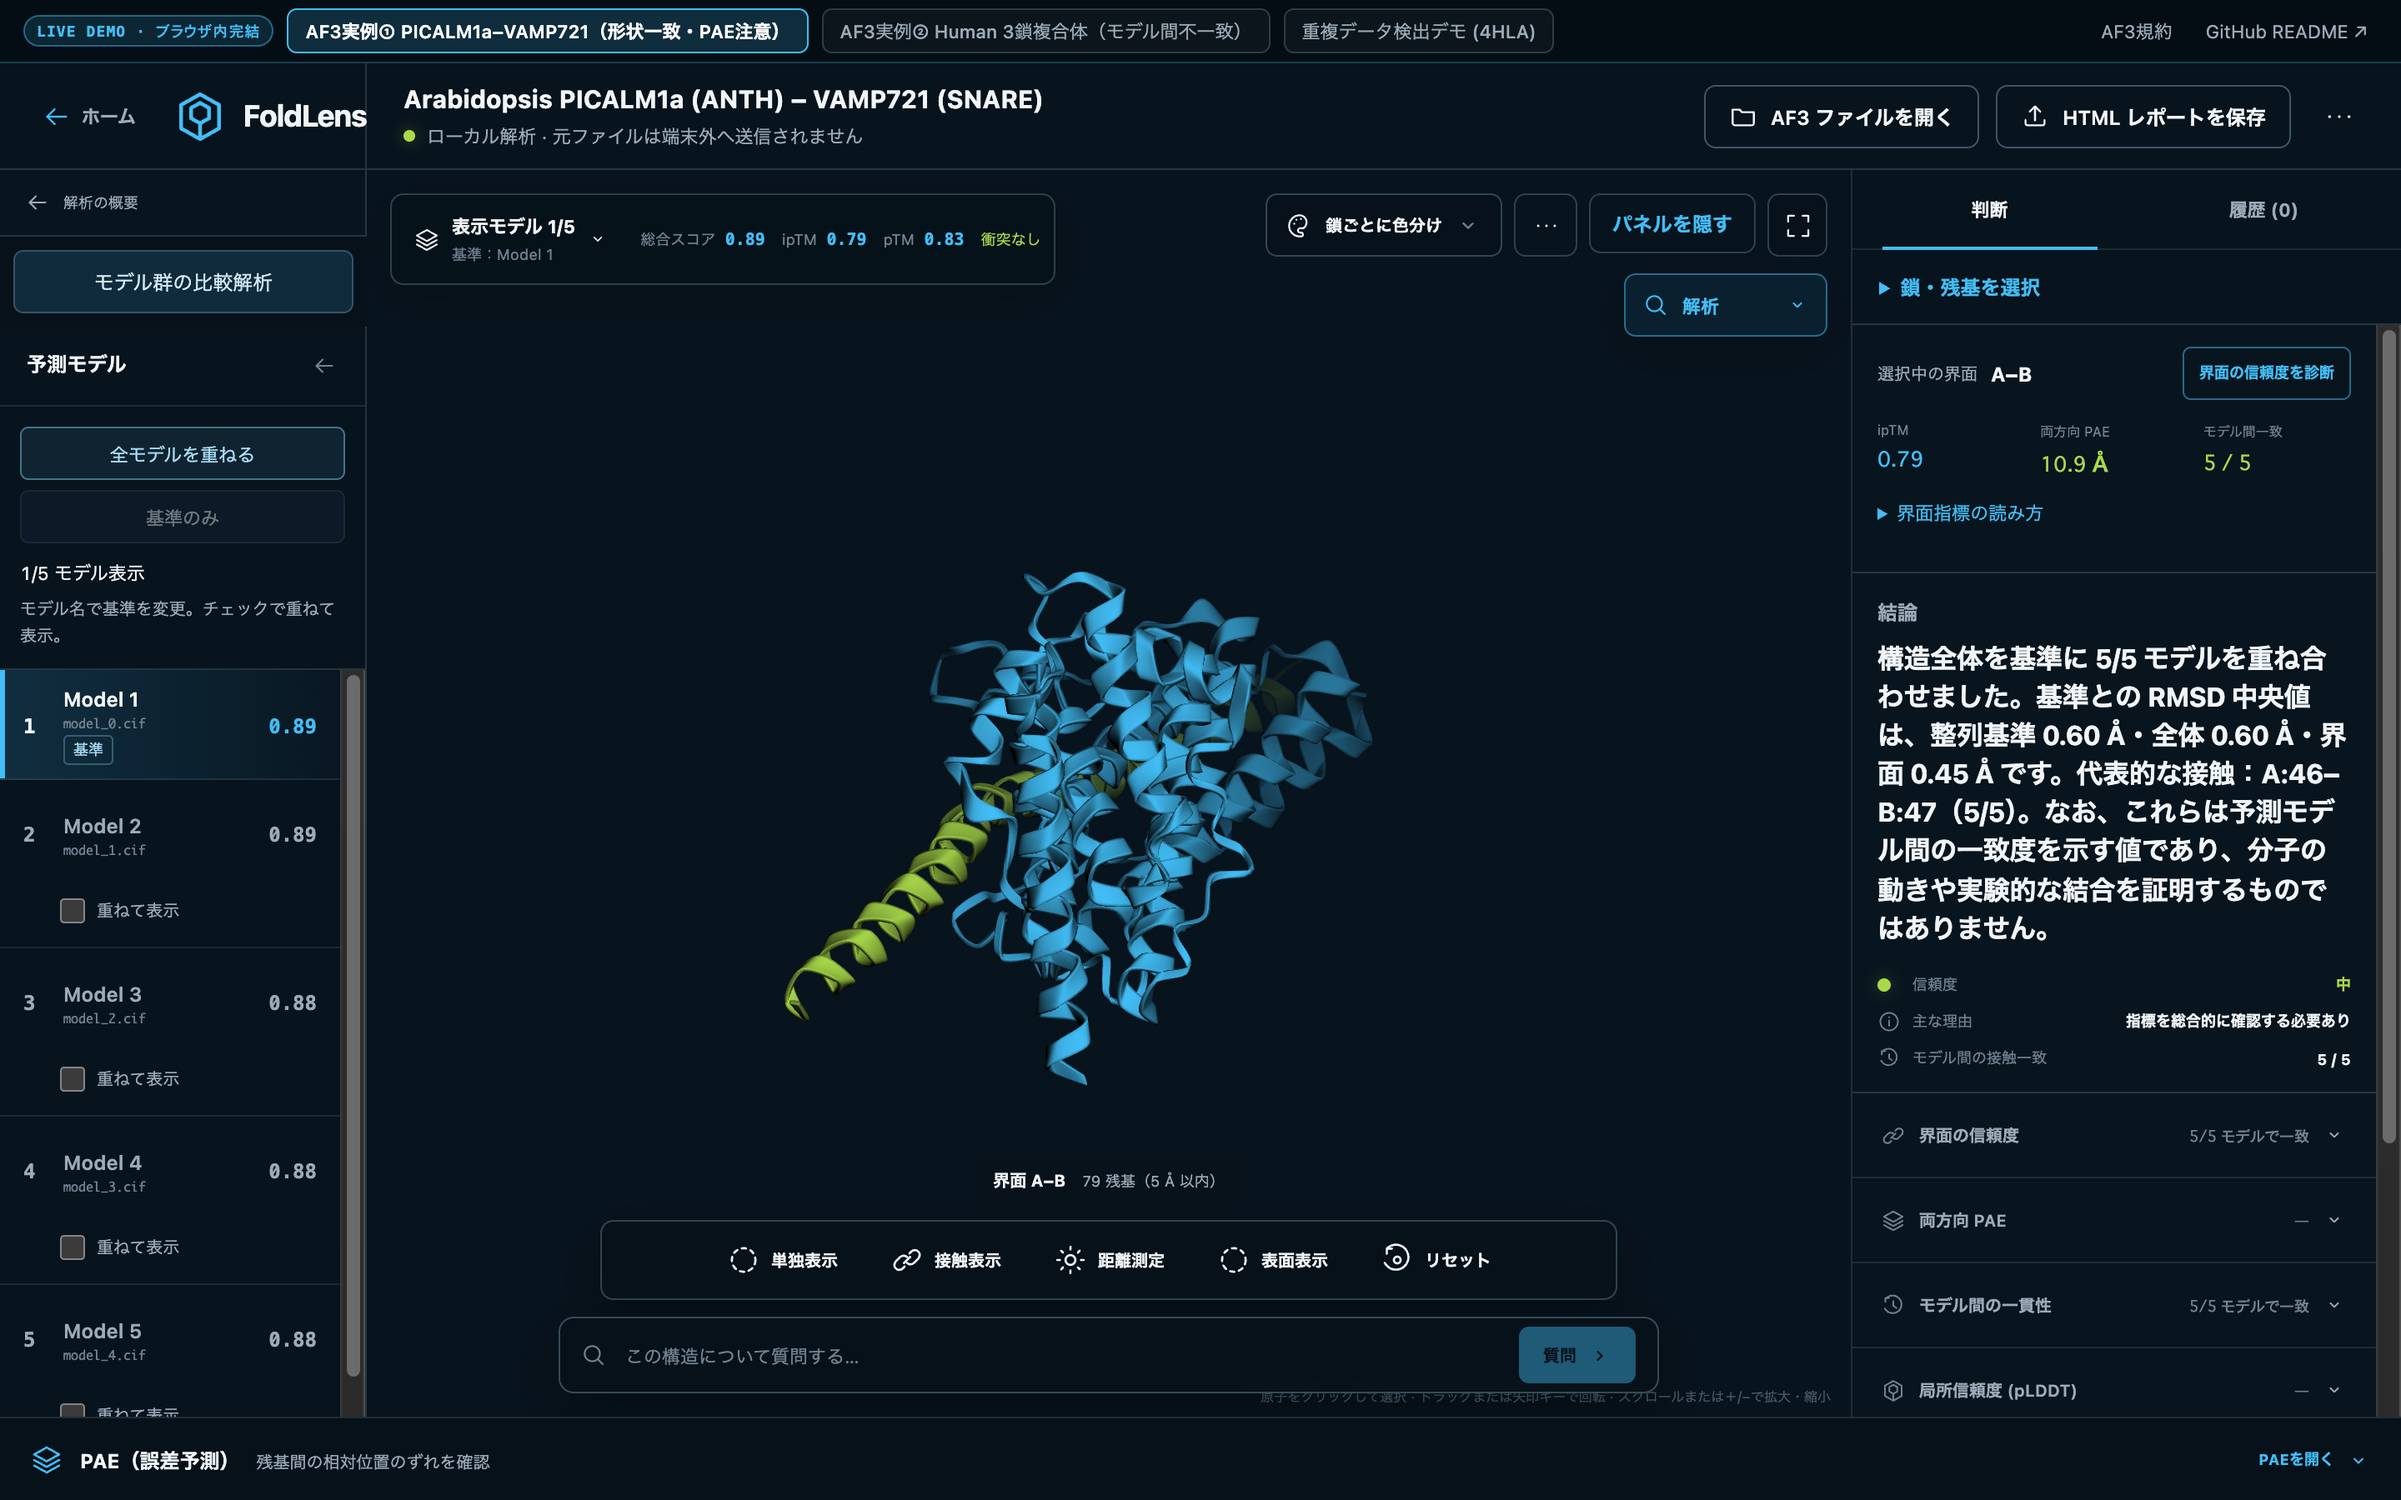
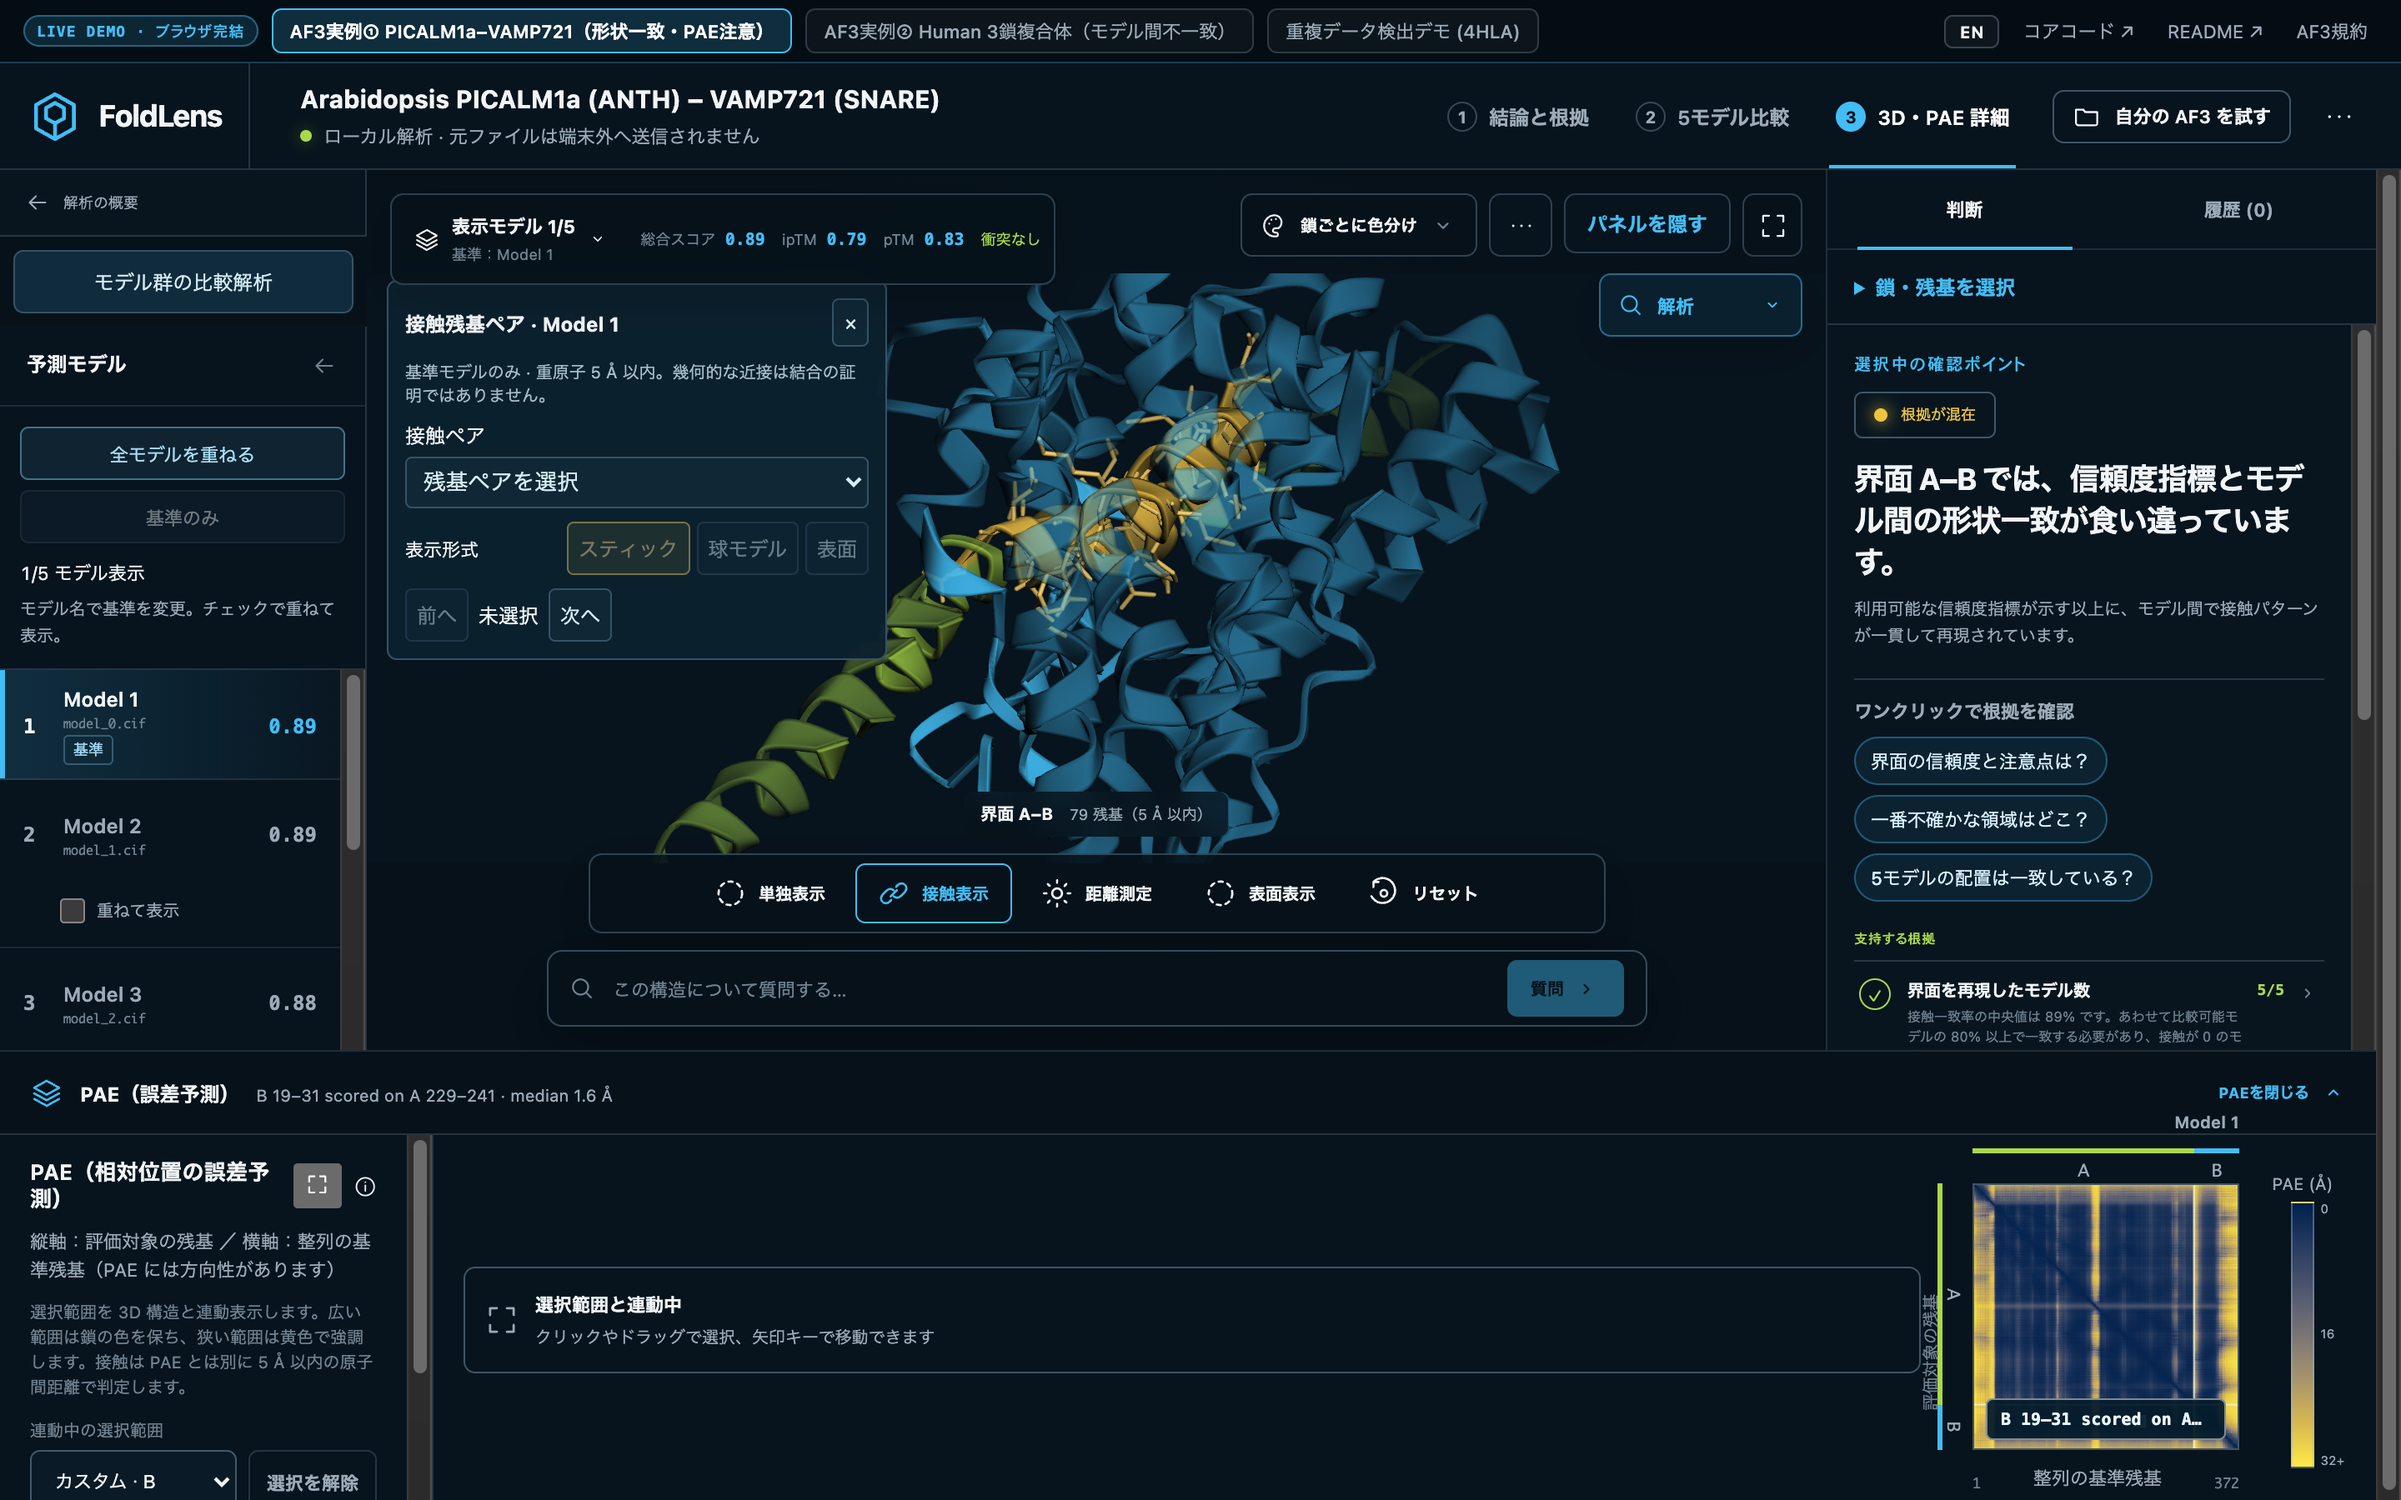
Refresh live demo screenshots and add 30-second guided walkthrough to README

diff --git a/README.md b/README.md
@@ -11,7 +11,12 @@
 [![Gate Demo](https://img.shields.io/badge/品質チェック-重複データ検出%20(4HLA)-6366f1?style=flat-square)](https://shunsuke-max.github.io/foldlens-portfolio/?case=4hla)
 
 > **▶ [ライブデモをブラウザで開く（インストール不要・APIキー不要・ブラウザ内完結）](https://shunsuke-max.github.io/foldlens-portfolio/)**  
-> 実際の AlphaFold 3 Server で出力した予測データ 2 件（各 5 モデル）をあらかじめ読み込めるようにしています。ブラウザ内の Web Worker で構造ファイル（CIF）と誤差予測（PAE JSON）を直接解析し、3D 分子表示・モデル間比較・PAE 連動・ルールベースのローカル解析をそのまま体験できます（お手元の AF3 ZIP をドラッグ＆ドロップしても、ファイルは外部へ一切送信されません）。
+> 実際の AlphaFold 3 Server で出力した予測データ 2 件（各 5 モデル）と重複座標チェック用データ（4HLA）を搭載しています。ブラウザ内の Web Worker で CIF / PAE JSON を直接解析するため、お手元の AF3 ZIP を試してもファイルは外部へ一切送信されません。
+>
+> **30 秒で全体像をつかむ体験ルート**
+> 1. **実例 1/3（初期画面）**：上部の見どころガイドと **`1. 結論と根拠` → `2. 5モデル比較` → `3. 3D・PAE 詳細`** の 3 ステップタブを順にクリックし、高スコア（`ipTM 0.79`）の裏にある界面 PAE `11.0 Å` とワンクリック質問を確認する。
+> 2. **実例 2/3（Human 3 鎖）**：ガイド右の「次の実例②」ボタンから切替え、配置割れ（`全体 RMSD 60.3 Å`）の自動警告と天然変性領域（`鎖 A 172–562`）の切り分けを見る。
+> 3. **実例 3/3（重複座標 4HLA）**：「次の実例③」ボタンで、同一座標 5 ファイルを `0.001 Å` 精度で自動ブロックするデータ品質ゲートを確認する（右上 `EN / 日本語` で即時言語切替に対応）。
 
 FoldLens は、AlphaFold 3 の構造予測結果を研究者が解釈・比較・検証するための**ローカル完結型（ローカルファースト）の AI 研究支援ワークスペース**です。3D 分子ビューア、信頼度・PAE 解析、複数予測モデル間の形状・接触比較、そして数値計算ツールを呼び出して根拠付きで回答する AI 研究エージェントをひとつの画面に統合しています。
 

diff --git a/README.en.md b/README.en.md
@@ -11,7 +11,12 @@
 [![Gate Demo](https://img.shields.io/badge/Quality%20Gate-Duplicate%20Coords%20(4HLA)-6366f1?style=flat-square)](https://shunsuke-max.github.io/foldlens-portfolio/?case=4hla)
 
 > **▶ [Launch Interactive Browser Demo (Zero Install · No API Key · 100% Client-Side)](https://shunsuke-max.github.io/foldlens-portfolio/)**  
-> Preloaded with two real AlphaFold 3 Server prediction ensembles (5 models each). All CIF/PAE parsing, heavy-atom contact comparison, 3Dmol.js rendering, and deterministic offline analysis execute locally inside browser Web Workers—you can also drag and drop your own AF3 ZIP without uploading raw coordinates.
+> Preloaded with two real AlphaFold 3 Server prediction ensembles (5 models each) plus a duplicate-coordinate quality gate case (4HLA). All CIF/PAE parsing, heavy-atom contact comparison, 3Dmol.js rendering, and deterministic offline answers run locally inside browser Web Workers.
+>
+> **30-Second Guided Walkthrough**
+> 1. **Case 1/3 (Default view)**: Follow the top 3-step bar (`1 Summary` → `2 5-Model Table` → `3 3D & PAE`) to inspect how FoldLens flags `11.0 Å` interface PAE tension behind `ipTM 0.79`, then try a one-click grounded question in Step 3.
+> 2. **Case 2/3 (Human 3-chain)**: Click **Next Case #2** in the guide bar to see ensemble divergence warnings (`60.3 Å` median global RMSD) and automated isolation of the disordered Chain A tail (`172–562`).
+> 3. **Case 3/3 (Duplicate Gate 4HLA)**: Click **Next Case #3** to see identical-coordinate detection (`0.001 Å` precision) block false reproducibility claims (instant `EN / 日本語` toggle in the top bar).
 
 FoldLens is a **local-first AI research workspace** for interpreting, comparing, and auditing AlphaFold 3 predictions. It unifies 3D molecular visualization, confidence/PAE inspection, cross-model geometric and contact analysis, and a tool-using AI research agent that grounds every claim in deterministic measurements.
 
